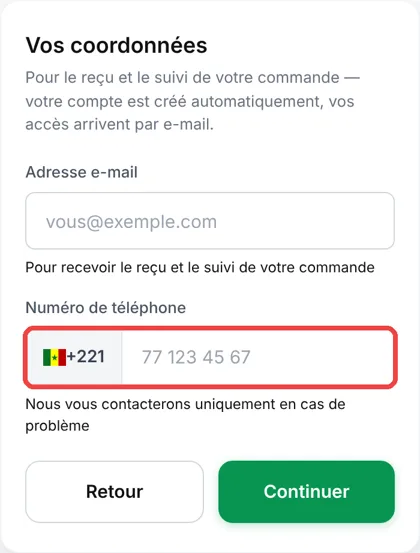
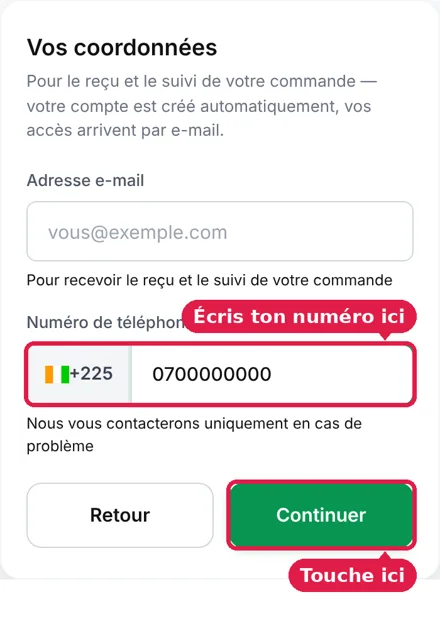
Guide Mobile Money : captures CryptoXOF en Côte d'Ivoire (+225) avec étiquettes « ici » (aperçu, non publié)
Claude-Session: https://claude.ai/code/session_01WCUtdWARkyETTthfhDNrqD

diff --git a/js/dep-crypto.js b/js/dep-crypto.js
@@ -241,7 +241,7 @@
     var box = document.getElementById('depositBox'); if (!box) return;
     var t = T[lg()], g = document.getElementById('dcpGuide'), x = XCH[0];
     if (!g) { g = document.createElement('div'); g.id = 'dcpGuide'; g.className = 'dcp-guide'; g.setAttribute('role', 'dialog'); g.setAttribute('aria-modal', 'true'); box.appendChild(g); }
-    var st = function (n, txt, img) { return '<li class="dcpk"><div class="dcpk-h"><i>' + n + '</i><b>' + esc(txt) + '</b></div>' + (img ? '<img class="dcpq-img" src="img/pay/' + img + '?v=2" alt="" loading="lazy">' : '') + '</li>'; };
+    var st = function (n, txt, img) { return '<li class="dcpk"><div class="dcpk-h"><i>' + n + '</i><b>' + esc(txt) + '</b></div>' + (img ? '<img class="dcpq-img" src="img/pay/' + img + '?v=5" alt="" loading="lazy">' : '') + '</li>'; };
     g.innerHTML =
       '<div class="dcpg-head"><b>' + esc(t.mmBtn) + '</b><button type="button" class="dcpg-x" data-x="1" aria-label="' + esc(t.close) + '"><svg viewBox="0 0 24 24" aria-hidden="true"><path d="M7 7l10 10M17 7L7 17"/></svg></button></div>' +
       '<div class="dcpg-body"><ol class="dcpk-list">' +
